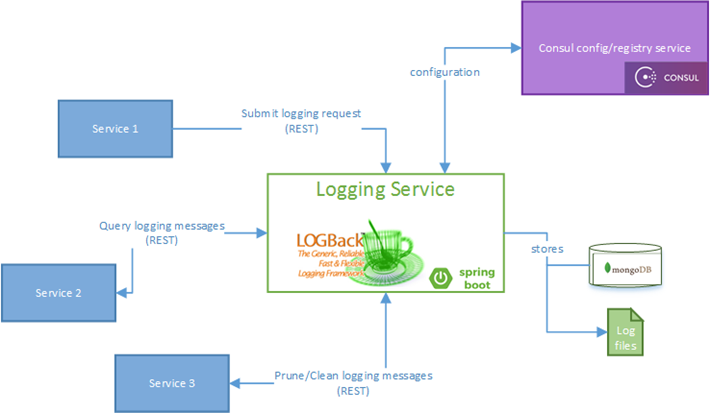
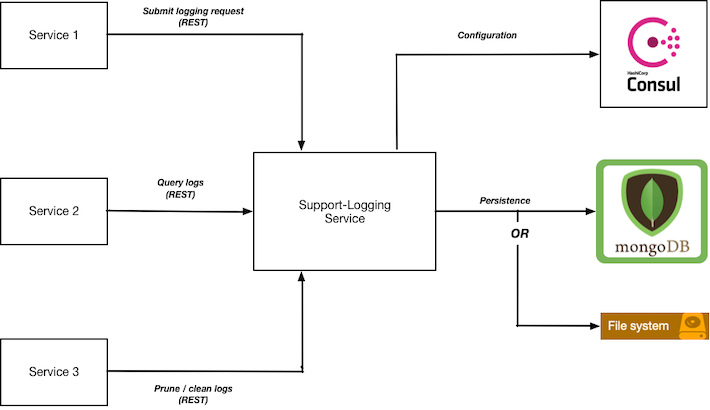
Updated Docs for Go Support-Logging and Client
Fix #803

diff --git a/docs/support/logging/Ch-Logging.rst b/docs/support/logging/Ch-Logging.rst
@@ -10,10 +10,10 @@ Introduction
 
 Logging is critical for all modern software applications. Proper logging provides the users with the following benefits:
 
-* Able to monitor and understand what systems are doing
-* Able to understand how services interact with each other
+* Ability to monitor and understand what systems are doing
+* Ability to understand how services interact with each other
 * Problems are detected and fixed quickly
-* Performance is improved
+* Monitoring to foster performance improvements
 
 The graphic shows the high-level design architecture of EdgeX Foundry including the Logging Service.
 
@@ -23,9 +23,8 @@ Minimum Product Feature Set
 
 1. Provides a RESTful API for other microservices to request log entries with the following characteristics:
 
-* The RESTful calls should be non-blocking—meaning calling services should fire logging requests without waiting for any response from the log service—to achieve minimal impact to the speed and performance to the services.
+* The RESTful calls should be non-blocking, meaning calling services should fire logging requests without waiting for any response from the log service to achieve minimal impact to the speed and performance to the services.
 * Support multiple logging levels, for example trace, debug, info, warn, error, fatal, and so forth.
-* Support the log entry tagging; tags can be anything dictated by the calling services.
 * Each log entry should be associated with its originating service.
 
 2. Provide RESTful APIs to query, clear, or prune log entries based on any combination of following parameters:
@@ -33,10 +32,9 @@ Minimum Product Feature Set
 * Timestamp from
 * Timestamp to
 * Log level
-* Tag
 * Originating service
 
-3. Log entries should be persisted in either file or database, and the persistence storage should be managed at configurable levels
+3. Log entries should be persisted in either file or database, and the persistence storage should be managed at configurable levels. Querying via the REST API is only supported for deployments using database storage.
 4. Take advantage of an existing logging framework internally and provide the “wrapper” for use by EdgeX Foundry
 5. Follow applicable standards for logging where possible and not onerous to use on the gateway
 
@@ -46,44 +44,7 @@ High Level Design Architecture
 
 .. image:: EdgeX_SupportingServicesLoggingArchitecture.png
 
-The above diagram shows the high-level architecture for EdgeX Foundry Logging Service, which uses the Spring Boot Application Framework. Other microservices interact with EdgeX Foundry Logging Service through RESTful APIs to submit their logging requests, query historical logging, and remove historical logging. Internally, EdgeX Foundry Logging Service utilizes LOGBack as its underneath logging framework. Two configurable persistence options exist supported by EdgeX Foundry Logging Service: file or MongoDB. 
-
-==========
-Data Model
-==========
-
-.. image:: EdgeX_SupportingServicesLoggingDataModel.png
-
-
-===============
-Data Dictionary
-===============
-
-+---------------------+--------------------------------------------------------------------------------------------+
-|   **Class Name**    |   **Descrption**                                                                           | 
-+=====================+============================================================================================+
-| LogEntry            | The object describing a particular log message including origin, severity, and content.    | 
-+---------------------+--------------------------------------------------------------------------------------------+
-| MatchCriteria       | The object describing the search parameters for a log query.                               | 
-+---------------------+--------------------------------------------------------------------------------------------+
-
-===============================
-High Level Interaction Diagrams
-===============================
-
-This section shows the sequence diagrams for EdgeX Foundry Logging Service.
-
-**Sequence Diagram for Logging Request**
-
-.. image:: EdgeX_SupportingServicesLoggingRequest.png
-
-**Sequence Diagram for Query Historical Logging**
-
-.. image:: EdgeX_SupportingServicesQueryHistoricalLogging.png
-
-**Sequence Diagram for Removing Historical Logging**
-
-.. image:: EdgeX_SupportingServicesRemoveHistoricalLogging.png
+The above diagram shows the high-level architecture for EdgeX Foundry Logging Service. Other microservices interact with EdgeX Foundry Logging Service through RESTful APIs to submit their logging requests, query historical logging, and remove historical logging. Internally, EdgeX Foundry's Logging Service utilizes the `GoKit logger <https://github.com/go-kit/kit/tree/master/log>`_ as its internal logging framework. Two configurable persistence options exist supported by EdgeX Foundry Logging Service: file or MongoDB.
 
 ========================
 Configuration Properties
@@ -92,12 +53,16 @@ Configuration Properties
 +---------------------------------------------------------+-------------------------------------+---------------------------------------------------------------------------+
 |   **Configuration**                                     |   **Default Value**                 |  **Dependencies**                                                         |
 +=========================================================+=====================================+===========================================================================+
+| Entries in the Writable section of the configuration can be changed on the fly while the service is running if the service is running with the --registry / -r flag       |
++---------------------------------------------------------+-------------------------------------+---------------------------------------------------------------------------+
 | Writable Persistence                                    | database                        \*  | "file" to save logging in file;                                           |
 |                                                         |                                     | "database" to save logging in MongoDB                                     |
 +---------------------------------------------------------+-------------------------------------+---------------------------------------------------------------------------+
 | Writable LogLevel                                       | INFO                            \*  | Logs messages set to a level of "INFO" or higher                          |
 +---------------------------------------------------------+-------------------------------------+---------------------------------------------------------------------------+
-| Service MaxResultCount                         | 50000                          \**  | Read data limit per invocation                                            |
+| The following keys represent the core service-level configuration settings                                                                                                |
++---------------------------------------------------------+-------------------------------------+---------------------------------------------------------------------------+
+| Service MaxResultCount                                  | 50000                          \**  | Read data limit per invocation                                            |
 +---------------------------------------------------------+-------------------------------------+---------------------------------------------------------------------------+
 | Service BootTimeout                                     | 300000                         \**  | Heart beat time in milliseconds                                           |
 +---------------------------------------------------------+-------------------------------------+---------------------------------------------------------------------------+
@@ -147,62 +112,75 @@ Configuration Properties
 +---------------------------------------------------------+-------------------------------------+---------------------------------------------------------------------------+
 
 
-| \*means the configuration value can be changed if necessary.
-| \**means the configuration value has to be replaced.
+| \*means the configuration value can be changed on the fly if using a configuration registry (like Consul).
+| \**means the configuration value can be changed but the service must be restarted.
 | \***means the configuration value should NOT be changed.
 
 
 ====================================================
-Logging Service Client Library for Java (Deprecated)
+Logging Service Client Library for Go
 ====================================================
 
-As most of EdgeX Foundry microservices are implemented in Java, we provide a Client Library for Java, so that Java-based microservices could directly switch their Loggers to use EdgeX Foundry Logging Service.  The next graphic shows the high-level design architecture for the Java Client Library.
+As the reference implementation of EdgeX Foundry microservices is written in Go, we provide a Client Library for Go so that Go-based microservices could directly switch their Loggers to use the EdgeX Foundry Logging Service.
 
-.. image:: EdgeX_SupportingServicesLoggingClientLibrary.png
+The Go LoggingClient is part of the `go-mod-core-contracts module <https://github.com/edgexfoundry/go-mod-core-contracts>`_. This module can be imported into your project by including a reference in your go.mod. You can either do this manually or by executing "go get github.com/edgexfoundry/go-mod-core-contracts" from your project directory will add a reference to the latest tagged version of the module.
 
-For a Java-based microservice, follow 4 steps to use Client Library for Java:
-
-1. Add support-logging-client as the maven dependency in pom.xml  
-2. Switch your local logger to org.edgexfoundry.support.logging.client.EdgeXLogger
-
-.. image:: EdgeX_SupportingServicesLoggingJavaLibrary1.png
-
-3. Add mandatory configuration into properties,  e.g.  src/main/resources/application.properties,  src/test/resources/application.properties,  config folders(docker and non-docker) of config-seed project, application.properties under docker-* Bitbucket repositories 
-
-.. image:: EdgeX_SupportingServicesLoggingJavaLibrary2.png
-
-4. As logging-client would pick up "spring.application.name" as originService when submitting remote logging request, make sure you add proper name for such property; otherwise, logging-client would use "unknown" as default value.
-
-.. image:: EdgeX_SupportingServicesLoggingJavaLibrary3.png
-
-Your application will need an SLF4J implementation.  If you are using Spring Boot as part of your project, this automatically brings in an SLF4J implementation into project.  In fact, you may find multiple implementations are brought into the project and you will have to use <exclusion> elements into the pom.xml to constrain the implementations used by the project.  See core-metadata's pom.xml for an example.  In the case where your project has no implementation, you will need to add one to the pom.xml in addition to the support-logging-client.  So, for example, if you create a simple Maven project (using no other frameworks/libraries other than support-logging-client) then you will also need to add some minimal SLF4J implementation.  Here is a simple set of dependencies to achieve a working logging implementation using support-logging-client.
+After that, simply import "github.com/edgexfoundry/go-mod-core-contracts/clients/logger" into a given package where your functionality will be implemented. Declare a variable or type member as logger.LoggingClient and it's ready for use.
 
 ::
 
-   <properties>
-   	   <support-logging-client.version>1.0.0-SNAPSHOT</support-logging-client.version>
-   </properties>
+    package main
 
-   <dependencies>
-      	   <dependency>
-		   <groupId>org.edgexfoundry</groupId>
-		   <artifactId>support-logging-client</artifactId>
-		   <version>${support-logging-client.version}</version>
-	   </dependency>
-	   <dependency>
-		   <groupId>org.slf4j</groupId>
-		   <artifactId>slf4j-simple</artifactId>
-		   <version>1.8.0-alpha2</version>
-	   </dependency>
-   </dependencies>
+    import "github.com/edgexfoundry/go-mod-core-contracts/clients/logger"
 
-Without the SLF4J implementation (in this case slf4j-simple), you will see errors like that below:
+    func main() {
+        client := logger.LoggingClient
+
+        //LoggingClient is now ready for use. A method is exposed for each LogLevel
+        client.Trace("some info")
+        client.Debug("some info")
+        client.Info("some info")
+        client.Warn("some info")
+        client.Error("some info")
+    }
 
 ::
 
-  SLF4J: Failed to load class "org.slf4j.impl.StaticLoggerBinder".
-  SLF4J: Defaulting to no-operation (NOP) logger implementation
-  SLF4J: See http://www.slf4j.org/codes.html#StaticLoggerBinder for further details.
+Log statements will only be written to the log if they match or exceed the minimum LogLevel set in the configuration (described above). This setting can be changed on the fly without restarting the service to help with real-time troubleshooting.
+
+Log statements are currently output in a simple key/value format. For example:
+
+::
+
+    level=INFO ts=2019-05-16T22:23:44.424176Z app=edgex-support-notifications source=cleanup.go:32 msg="Cleaning up of notifications and transmissions"
+
+::
+
+Everything up to the "msg" key is handled by the logging infrastructure. You get the log level, timestamp, service name and the location in the source code of the logging statement for free with every method invocation on the LoggingClient. The "msg" key's value is the first parameter passed to one of the Logging Client methods shown above. So to extend the usage example a bit, the above calls would result in something like:
+
+::
+
+    level=INFO ts=2019-05-16T22:23:44.424176Z app=logging-demo source=main.go:11 msg="some info"
+
+::
+
+You can add as many custom key/value pairs as you like by simply adding them to the method call:
+
+::
+
+    client.Info("some info","key1","abc","key2","def")
+
+::
+
+This would result in:
+
+::
+
+    level=INFO ts=2019-05-16T22:23:44.424176Z app=logging-demo source=main.go:11 msg="some info" key1=abc key2=def
+
+::
+
+Quotes are only put around values that contain spaces.
 
 ==================
 EdgeX Logging Keys
